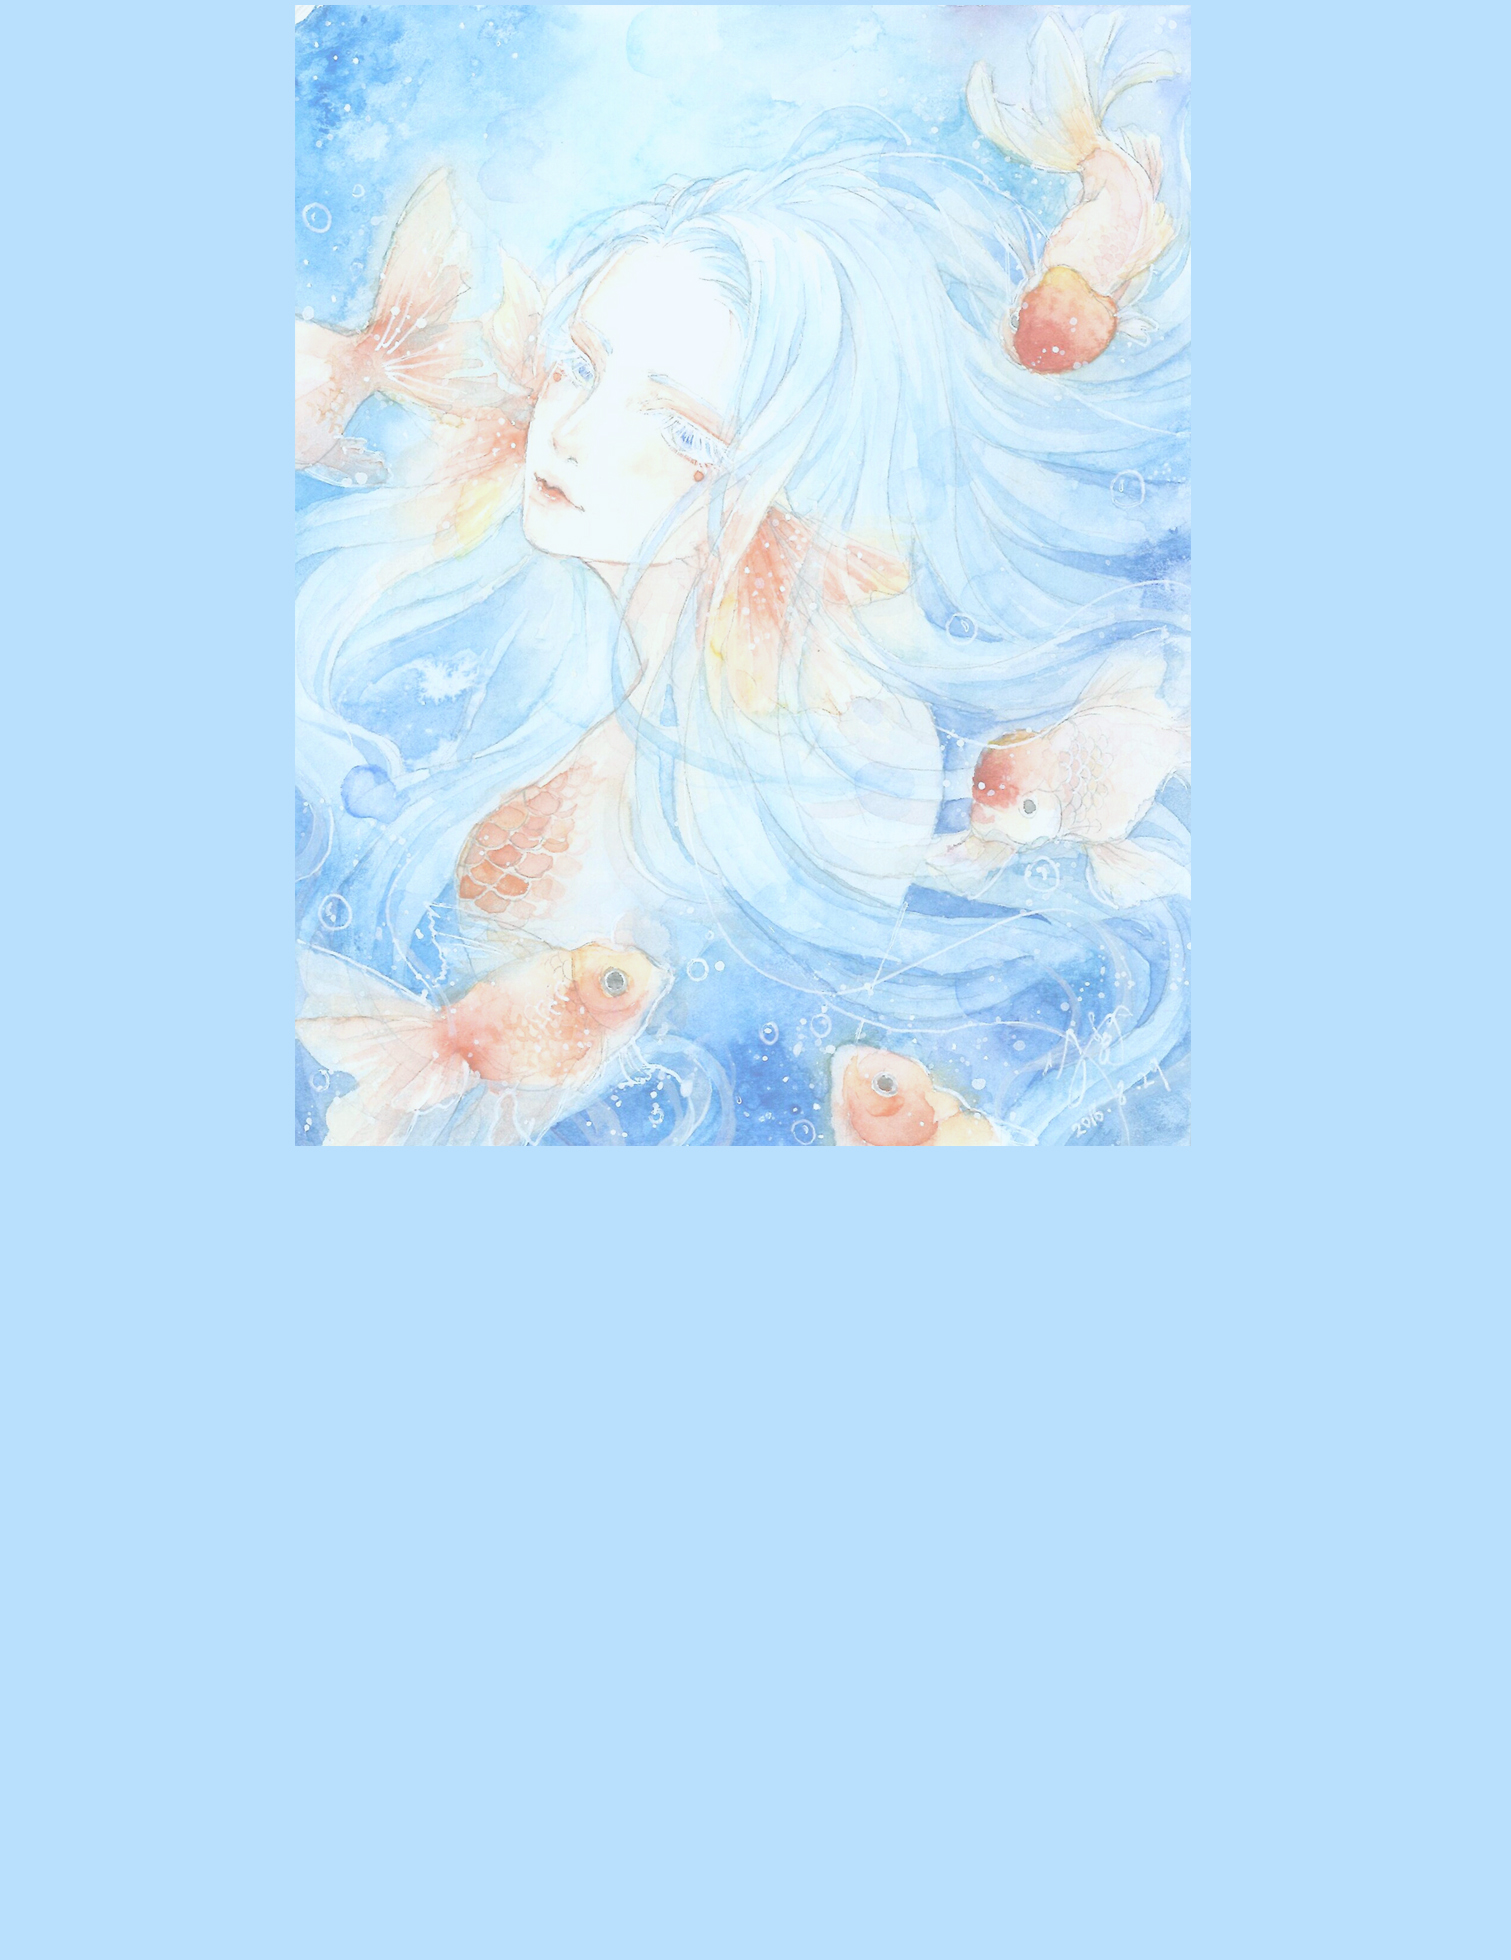
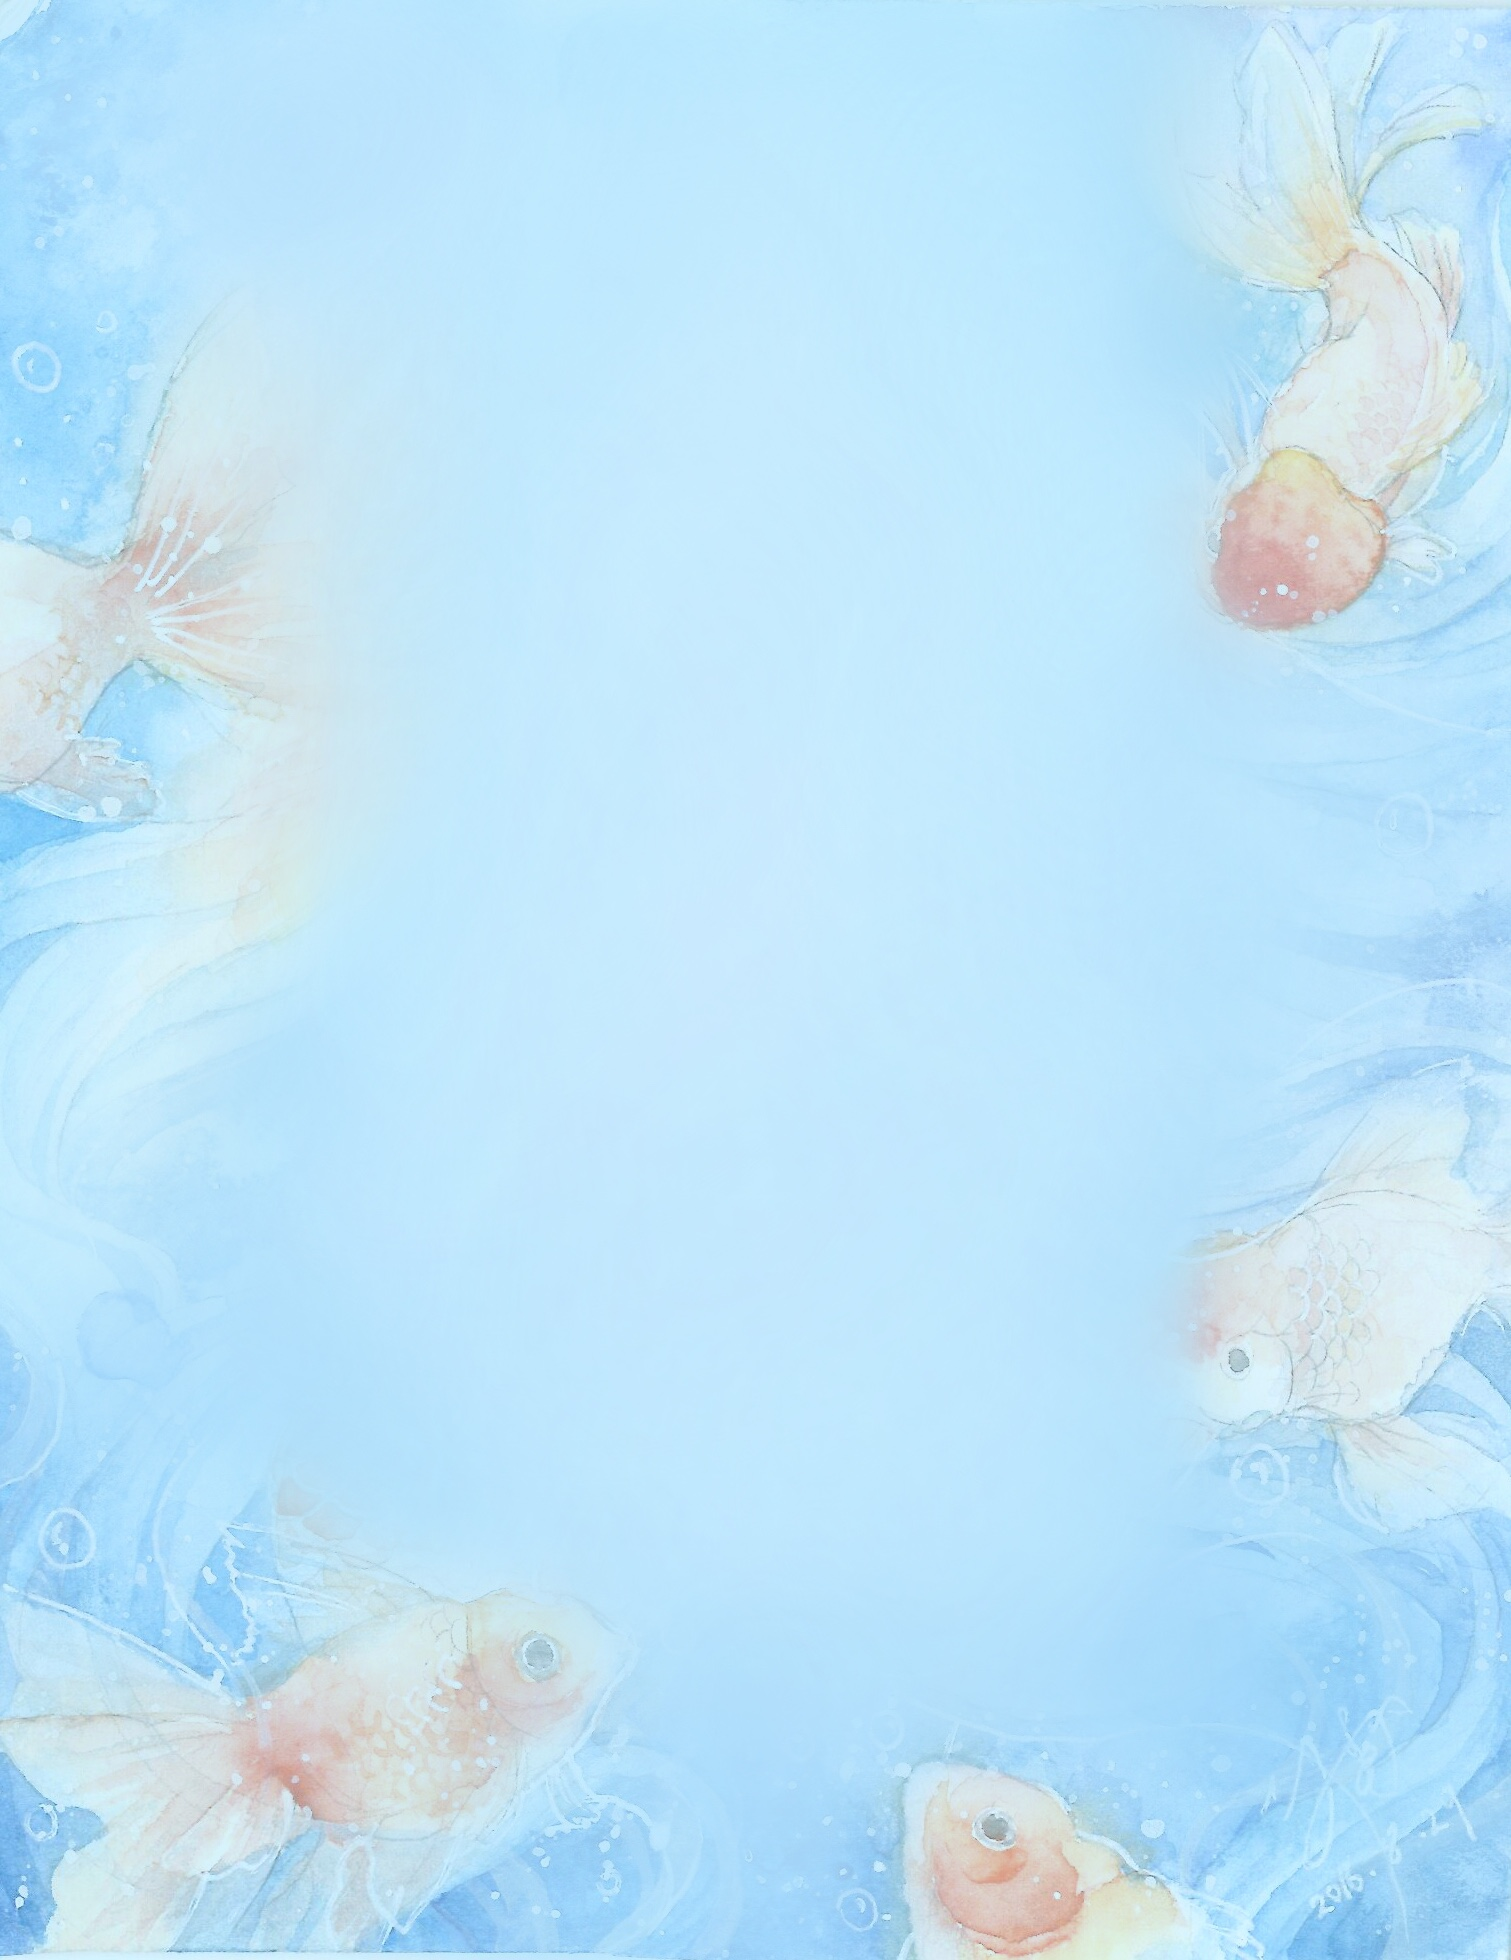
bbvbbv
add.

diff --git a/ART103/Mod&Tessle.html b/ART103/Mod&Tessle.html
@@ -1,0 +1,84 @@
+<!DOCTYPE html>
+<html>
+<head>
+<title>Xiaozhen's ART103 Portfolio</title>
+
+
+</head>
+<body>
+
+	<style>
+		body {
+		  background-image: url('IMG_1440444444.jpg');
+		  background-repeat: no-repeat;
+		  background-attachment: fixed;
+		  background-size: cover;
+		}
+		</style>
+
+<br><br>
+<h1>
+	<center><font face="Bradley Hand" color="#4682b4"> ART 103 AR AS SYSTEM | Eliza </font></center></h1>
+	<center><font face="Bradley Hand" color="#4682b4">
+	<a href="Oblique_Strategies.html">| Oblique Strategies | </a>
+		<a href="Individual.html">Student's Artwork | </a>
+			<a href="Reading.html">Reading | </a>
+			<a href="Mod&Tessle.html">Mod and Tessle |</a></center></font>
+			<br>
+			<br>	
+
+					
+	<h2>
+		<center><font face="Bradley Hand" color="#07376A">Phase 1</h2>
+<h3>
+	<center><font face="Bradley Hand" color="#07376A">Tessellation</h3>
+
+			<center><img src ="t1.jpg" width= "500"></center>
+			<center><img src ="t2.JPG" width= "500"></center>
+			<br><center><img src ="o1.JPG" width= "500"></center>
+			<br>
+					
+<h3>
+	<center><font face="Bradley Hand" color="#07376A">Oragami </h3>
+
+			<center><img src ="or1.jpg" width= "500"></center>
+			<br>
+					
+<br>
+<h2>
+	<center><font face="Bradley Hand" color="#07376A">Group Work</h2>
+		
+<h3>
+	<center><font face="Bradley Hand" color="#07376A">Our artwork on the first presentation. </h3>
+		<center><img src ="1st.png" width= "700"></center>
+<br>
+<h3>
+	<center><font face="Bradley Hand" color="#07376A">After some modifications </h3>
+		<center><img src ="2nd.png" width= "700"></center>
+		
+		<br><br><br><br>
+
+		<h2>
+			<center><font face="Bradley Hand" color="#07376A">Kirigami Art</h2>
+
+		<h3>
+
+			<center><font face="Bradley Hand" color="#07376A"> 
+				I used colored paper squares of different colors, cut the connecting points in each corner<br>
+				 clockwise with scissors, and then spliced them into a cube with four colors on each side.<br>
+			</h3>
+			<center><img src ="sample.jpg" width= "600"></center>
+				<center><img src ="Kirigami1.jpg" width= "600"></center>
+
+				<h3>
+
+					<center><font face="Bradley Hand" color="#07376A"> 
+						Another piece is that I carved many layers of butterflies <br>
+						and then colored them and stacked them together.<br>
+					</h3>
+				<center><img src ="Kirigami2.jpg" width= "350">
+					<img src ="Kirigami3.jpg" width= "350"></center><br><br><br>
+		<br><br><br><br>
+		
+	</body>
+</html> 

diff --git a/ART103/Reading.html b/ART103/Reading.html
@@ -22,11 +22,13 @@
 	<a href="Oblique_Strategies.html">| Oblique Strategies | </a>
 		<a href="Individual.html">Student's Artwork | </a>
 			<a href="Reading.html">Reading | </a>
-			<a href="">Mod and Tessle |</a></center></font>
+			<a href="Mod&Tessle.html">Mod and Tessle |</a></center></font>
 			<br>
 			<br>
 			<br>
 
+			<h2>
+				<center><font face="Bradley Hand" color="#4682b4"> Reading #1 Part 1: Questions And Answers  </font></center></h2>
 
 			<h3>
 				<center><font face="times" color="#07376A">
@@ -88,11 +90,32 @@
 						Q6 Group Activity. Each student will need to Bring in a series of 8 diagrams that show <br>
 						evidence of Modularity, Decomposability, Emergence and Chaos Theory.<br>
 						</font></center></h2>
+<br>
+<h3><center><font face="Bradley Hand" color="#07376A">- System diagrams with more than 100 elements:  </h3>
+	<center><img src ="100element.jpg" width= "500"></center>
+<br>
+<br>
+<h3><center><font face="Bradley Hand" color="#07376A">- System diagrams that is something considered alive:</h3>
+	<center><img src ="alive.jpg" width= "500"></center>
+	
+	<br>
+<h3><center><font face="Bradley Hand" color="#07376A">- System diagrams that represent something that is not visible or physical:
 
+</h3>
+<center><img src ="economy.png" width= "500"></center>
+	
 
+	<br>
+<h3><center><font face="Bradley Hand" color="#07376A">- System diagrams that represent a system taht incorporates modularity:</h3>
+	<center><img src ="water.jpg" width= "500"></center>
+	
 <br>
 <br>
 <br>
+<h2>
+	<center><font face="Bradley Hand" color="#4682b4"> Reading#1 Part 2: Revised System Diagrams </font></center></h2>
+	<br>
+
 
 			<h2><center><font face="Bradley Hand" color="#07376A">Chaos Theory</h2>
 				<h3><center><font face="Bradley Hand" color="#4682b4">By Matteo Leva</h3>

diff --git a/ART103/studentART.html b/ART103/studentART.html
@@ -15,12 +15,14 @@
 		  background-size: cover;
 		}
 		</style>
-
-
 <h1>
-	<center><font face="Bradley Hand" color="#07376A"> Eliza's Website </font></center>
-	</h1>
-
+	<center><font face="Bradley Hand" color="#4682b4"> ART 103 AR AS SYSTEM | Eliza </font></center></h1>
+	<center><font face="Bradley Hand" color="#4682b4">
+	<a href="Oblique_Strategies.html">| Oblique Strategies | </a>
+		<a href="Individual.html">Student's Artwork | </a>
+			<a href="Reading.html">Reading | </a>
+			<a href="Mod&Tessle.html">Mod and Tessle |</a></center></font>
+			<br>
 	<h2>
 		<center><font face="Bradley Hand" color="#07376A">Childhood Memory: Temari Ball</h2>
 			<h4>

diff --git a/ART103/Individual.html b/ART103/Individual.html
@@ -24,7 +24,7 @@
 	<a href="Oblique_Strategies.html">| Oblique Strategies | </a>
 		<a href="Individual.html">Student's Artwork | </a>
 			<a href="Reading.html">Reading | </a>
-			<a href="">Mod and Tessle |</a></center></font>
+			<a href="Mod&Tessle.html">Mod and Tessle |</a></center></font>
 			<br>
 			<br>
 			<br>

diff --git a/ART103/Oblique_Strategies.html b/ART103/Oblique_Strategies.html
@@ -23,7 +23,7 @@
 	<a href="Oblique_Strategies.html">| Oblique Strategies | </a>
 		<a href="Individual.html">Student's Artwork | </a>
 			<a href="Reading.html">Reading | </a>
-			<a href="">Mod and Tessle |</a></center></font>
+			<a href="Mod&Tessle.html">Mod and Tessle |</a></center></font>
 			<br>
 			<br>
 			<br>

diff --git a/ART103/index.html b/ART103/index.html
@@ -37,11 +37,14 @@
 
 		<a href="Reading.html"><h3>Reading</h3></a>
 
-		<a href=""><h3>Mod and Tessle</h3></a>
+		<a href="Mod&Tessle.html"><h3>Mod and Tessle</h3></a>
 
 		
 
 	</center></font>
+	<br>
+		<br>
+		<br>	<br><br>
 	  </div>
 </body>
 </html>
